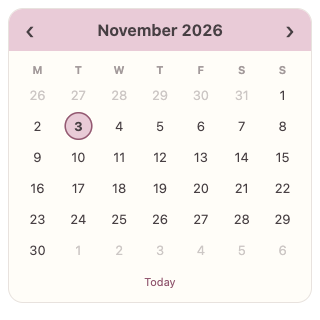
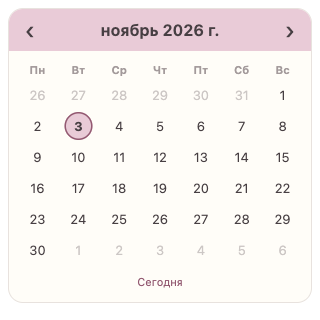
Verify Russian widget previews and use Russian catalog defaults

diff --git a/docs/catalog/README.md b/docs/catalog/README.md
@@ -208,7 +208,7 @@ https://zhangleiye68-jpg.github.io/buildin-reference-widgets/school-planner/gree
 
 目录 ID：`widget-009`
 
-### Cozy 蓝色指针时钟 · 英语／俄语
+### Cozy 蓝色指针时钟 · 俄语／英语
 
 ![Cozy 蓝色指针时钟默认预览](previews/cozy-clock.png)
 
@@ -216,17 +216,17 @@ https://zhangleiye68-jpg.github.io/buildin-reference-widgets/school-planner/gree
 
 按设备时间更新的蓝色圆形指针时钟。
 
-[打开组件或素材](https://zhangleiye68-jpg.github.io/buildin-reference-widgets/cozy-study/?widget=clock) · [原始来源](https://github.com/zhangleiye68-jpg/buildin-reference-widgets/tree/main/docs/cozy-study/) · [源码](https://github.com/zhangleiye68-jpg/buildin-reference-widgets/tree/main/docs/cozy-study/)
+[打开组件或素材](https://zhangleiye68-jpg.github.io/buildin-reference-widgets/cozy-study/?widget=clock&lang=ru) · [原始来源](https://github.com/zhangleiye68-jpg/buildin-reference-widgets/tree/main/docs/cozy-study/) · [源码](https://github.com/zhangleiye68-jpg/buildin-reference-widgets/tree/main/docs/cozy-study/)
 
 嵌入／素材地址：
 
 ```text
-https://zhangleiye68-jpg.github.io/buildin-reference-widgets/cozy-study/?widget=clock
+https://zhangleiye68-jpg.github.io/buildin-reference-widgets/cozy-study/?widget=clock&lang=ru
 ```
 
 - 按查看者设备日期与时区显示；可加 theme=light 或 theme=dark。
 - 俄语地址：https://zhangleiye68-jpg.github.io/buildin-reference-widgets/cozy-study/?widget=clock&lang=ru
-- 默认预览保留英语界面；lang=ru 同时翻译星期、月份、按钮与日期。
+- 目录默认提供俄语地址与真实预览；去掉 lang=ru 可恢复英语。
 
 许可：MIT · [许可与归属](https://github.com/zhangleiye68-jpg/buildin-reference-widgets/blob/main/docs/cozy-study/LICENSE)
 
@@ -304,7 +304,7 @@ https://zhangleiye68-jpg.github.io/buildin-reference-widgets/community/httishere
 
 目录 ID：`widget-011`
 
-### Cozy 动态月历 · 英语／俄语
+### Cozy 动态月历 · 俄语／英语
 
 ![Cozy 动态月历默认预览](previews/cozy-calendar.png)
 
@@ -312,18 +312,18 @@ https://zhangleiye68-jpg.github.io/buildin-reference-widgets/community/httishere
 
 跟随当前月份，高亮今天，可切月、选日期和返回今天。
 
-[打开组件或素材](https://zhangleiye68-jpg.github.io/buildin-reference-widgets/cozy-study/?widget=calendar) · [原始来源](https://github.com/zhangleiye68-jpg/buildin-reference-widgets/tree/main/docs/cozy-study/) · [源码](https://github.com/zhangleiye68-jpg/buildin-reference-widgets/tree/main/docs/cozy-study/)
+[打开组件或素材](https://zhangleiye68-jpg.github.io/buildin-reference-widgets/cozy-study/?widget=calendar&lang=ru) · [原始来源](https://github.com/zhangleiye68-jpg/buildin-reference-widgets/tree/main/docs/cozy-study/) · [源码](https://github.com/zhangleiye68-jpg/buildin-reference-widgets/tree/main/docs/cozy-study/)
 
 嵌入／素材地址：
 
 ```text
-https://zhangleiye68-jpg.github.io/buildin-reference-widgets/cozy-study/?widget=calendar
+https://zhangleiye68-jpg.github.io/buildin-reference-widgets/cozy-study/?widget=calendar&lang=ru
 ```
 
 - 周一开始；不存储日程，不连接数据库。
 - 可加 theme=light 或 theme=dark；无参数时跟随色彩模式。
 - 俄语地址：https://zhangleiye68-jpg.github.io/buildin-reference-widgets/cozy-study/?widget=calendar&lang=ru
-- 默认预览保留英语界面；lang=ru 同时翻译星期、月份、按钮与日期。
+- 目录默认提供俄语地址与真实预览；去掉 lang=ru 可恢复英语。
 
 许可：MIT · [许可与归属](https://github.com/zhangleiye68-jpg/buildin-reference-widgets/blob/main/docs/cozy-study/LICENSE)
 
